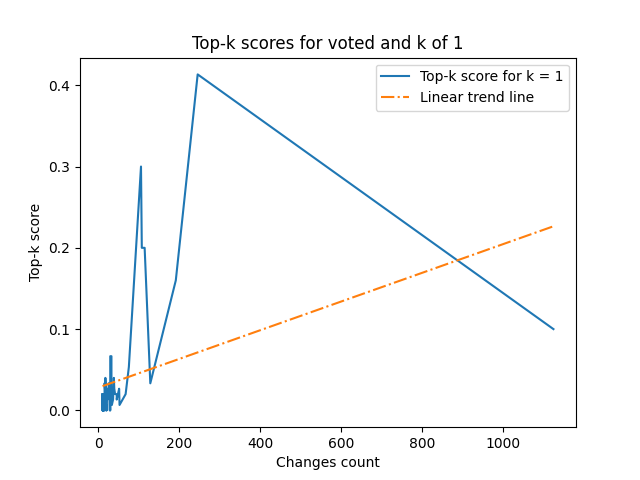
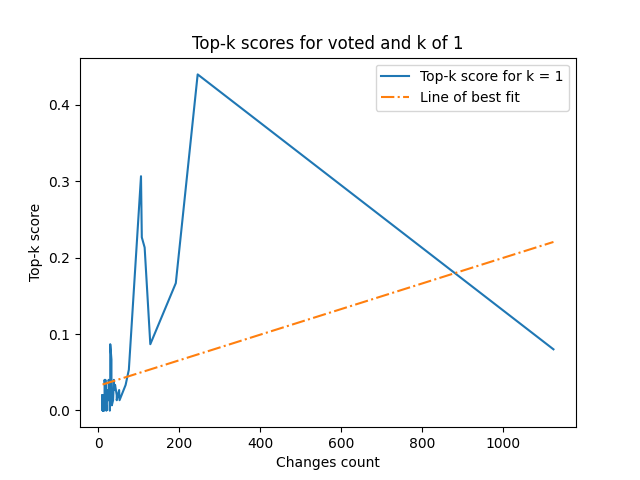
Further work

diff --git a/evaluation/results/neural_network_results_to_graphs.py b/evaluation/results/neural_network_results_to_graphs.py
@@ -1,0 +1,146 @@
+import itertools
+import json
+
+import numpy
+from matplotlib import pyplot
+
+import common
+from evaluation import KValues
+from recommender.neural_network_recommender.neural_network_recommender import ModelMode
+
+repo_test_files_counts = json.load(open(common.path_relative_to_root("data_collection/raw_data/repository_file_counts.json"), 'r'))
+repo_test_files_counts_in_order = [(k, v) for k, v in repo_test_files_counts.items()]
+repo_test_files_counts_in_order = sorted(repo_test_files_counts_in_order, key=lambda x: x[1])
+
+repo_test_changes_counts = json.load(open(common.path_relative_to_root("data_collection/raw_data/repository_test_data_counts.json"), 'r'))
+repo_test_changes_counts_in_order = [(k, v) for k, v in repo_test_changes_counts.items()]
+repo_test_changes_counts_in_order = sorted(repo_test_changes_counts_in_order, key=lambda x: x[1]["changes_count"])
+
+neural_network_results = json.load(open("neural_network_recommender.json", 'r'))
+neural_network_top_k = neural_network_results['top-k']
+neural_network_mrr = neural_network_results['mrr']
+neural_network_testing_after_training_results = json.load(open("neural_network_training_test_results.json", 'r'))
+
+# TODO: Deuplicate the rule based to graphs file version? If no changed needed then do this.
+def create_and_save_graph(x, y, ylabel, title, filename, line_label = None):
+    if line_label is None:
+        # Use ylabel for line_label if line_label is None
+        line_label = ylabel
+    pyplot.figure()
+    pyplot.plot(x, y, label=line_label)
+    p = numpy.poly1d(numpy.polyfit(x, y, 1))
+    pyplot.plot(x, p(x), label="Linear trend line", linestyle="dashdot")
+    pyplot.legend()
+    pyplot.title(title)
+    pyplot.ylabel(ylabel)
+    pyplot.xlabel("Changes count")
+    pyplot.savefig('graphs/' + common.get_sanitised_filename(filename))
+
+model_types_to_appendixes = {
+    ModelMode.REPO_SPECIFIC: ['_approved', '_voted'],
+    ModelMode.MERGED: ['_merged_approved', '_merged_voted'],
+    ModelMode.ABANDONED: ['_abandoned_approved', '_abandoned_voted'],
+    ModelMode.OPEN: ['_open_approved', '_open_voted']
+}
+
+for model_mode, matching_appendixes in model_types_to_appendixes.items():
+    # Plot average of accuracy_score
+    x = []
+    y = []
+    for model_name, testing_after_training_results in neural_network_testing_after_training_results.items():
+        if model_name in ["generic_voted", "generic_approved"]:
+            # Can't graph the generic models as there is only two values.
+            continue
+        model_name: str
+        repository = ''
+        for matching_appendix in matching_appendixes:
+            if model_name.endswith(matching_appendix):
+                if model_mode == ModelMode.REPO_SPECIFIC:
+                    # Ensure match was not for _X_approved/_X_voted where X is open, abandoned or merged.
+                    for exclude_appendix in itertools.chain(model_types_to_appendixes[ModelMode.OPEN], model_types_to_appendixes[ModelMode.MERGED], model_types_to_appendixes[ModelMode.ABANDONED]):
+                        if model_name.endswith(exclude_appendix):
+                            break
+                    else:
+                        repository = model_name.replace(matching_appendix, '').replace('-', '/')
+                        break
+                else:
+                    repository = model_name.replace(matching_appendix, '').replace('-', '/')
+                    break
+        else:
+            # Skip if no appendixes matched.
+            continue
+        if repository not in repo_test_changes_counts:
+            continue
+        if testing_after_training_results["accuracy_score"]["average"] is None:
+            continue
+        # TODO: Graphs with file count and test changes count as x to show neither are a good way to graph?
+        # Add to the data to plot.
+        x.append(repo_test_changes_counts[repository]["changes_count"])
+        y.append(testing_after_training_results["accuracy_score"]["average"])
+    # Sort x and y by values of x keeping the x and y paired
+    x_and_y = [(x_item, y_item) for x_item, y_item in zip(x, y)]
+    x_and_y = sorted(x_and_y, key=lambda x: x[0])
+    x = [x for x, _ in x_and_y]
+    y = [y for _, y in x_and_y]
+    create_and_save_graph(
+        x, y, "Average accuracy score",
+        "Average accuracy scores for " + model_mode.value + " models",
+        'neural-network-avg-accuracy-' + model_mode.value + '.png',
+        line_label="Average accuracy score"
+    )
+
+
+for vote_type in ["approved", "voted"]:
+    for top_k_value in KValues.ALL_VALUES:
+        x = []
+        y = []
+        for repo, info in repo_test_changes_counts_in_order:
+            if repo not in neural_network_top_k.keys():
+                continue
+            if "merged" not in neural_network_top_k[repo].keys():
+                continue
+            if repo == "mediawiki/core":
+                continue
+            x.append(info["changes_count"])
+            y.append(neural_network_top_k[repo]["merged"][vote_type][str(top_k_value)])
+        create_and_save_graph(
+            x, y, "Top-k score",
+            "Top-k scores for " + vote_type + " and k of " + str(top_k_value) + " without mediawiki/core",
+            'neural-network-top-k-' + vote_type + '-k-' + str(top_k_value) + '-no-core.png',
+            line_label="Top-k score for k = " + str(top_k_value)
+        )
+        # Add mediawiki/core for next graph
+        x.append(repo_test_changes_counts["mediawiki/core"]["changes_count"])
+        y.append(neural_network_top_k["mediawiki/core"]["merged"][vote_type][str(top_k_value)])
+        create_and_save_graph(
+            x, y, "Top-k score",
+            "Top-k scores for " + vote_type + " and k of " + str(top_k_value),
+            'neural-network-top-k-' + vote_type + '-k-' + str(top_k_value) + '.png',
+            line_label="Top-k score for k = " + str(top_k_value)
+        )
+
+for vote_type in ["approved", "voted"]:
+    x = []
+    y = []
+    for repo, info in repo_test_changes_counts_in_order:
+        if repo not in neural_network_mrr.keys():
+            continue
+        if "merged" not in neural_network_mrr[repo].keys():
+            continue
+        if repo == "mediawiki/core":
+            continue
+        x.append(info["changes_count"])
+        y.append(neural_network_mrr[repo]["merged"][vote_type])
+    create_and_save_graph(
+        x, y, "MRR score",
+        "MRR scores for " + vote_type + " without mediawiki/core",
+        'neural-network-mrr-' + vote_type + '-no-core.png'
+    )
+    # Add mediawiki/core for next graph
+    x.append(repo_test_changes_counts["mediawiki/core"]["changes_count"])
+    y.append(neural_network_mrr["mediawiki/core"]["merged"][vote_type])
+    create_and_save_graph(
+        x, y, "MRR score",
+        "MRR scores for " + vote_type,
+        'neural-network-mrr-' + vote_type + '.png'
+    )

diff --git a/evaluation/results/neural_network_results_to_latex_table_format.py b/evaluation/results/neural_network_results_to_latex_table_format.py
@@ -1,0 +1,67 @@
+import json
+import statistics
+from argparse import ArgumentParser
+
+import numpy
+
+import common
+from recommender.neural_network_recommender.neural_network_recommender import ModelMode
+
+argument_parser = ArgumentParser(
+        description="Prints the evaluation data into LaTeX table form. Used to write the report.")
+argument_parser.add_argument('repositories', nargs='*', help="The repositories to filter for")
+arguments = argument_parser.parse_args()
+
+# Repo file count metrics
+repo_file_counts = json.load(open(common.path_relative_to_root("data_collection/raw_data/repository_file_counts.json"), 'r'))
+repo_file_counts_in_order = [(k, v) for k, v in repo_file_counts.items()]
+repo_file_counts_in_order = sorted(repo_file_counts_in_order, key=lambda x: x[1])
+if len(arguments.repositories):
+    print("Only printing data for repos specified in the arguments")
+    repo_file_counts_in_order = list(filter(lambda x: x[0] in arguments.repositories, repo_file_counts_in_order))
+repo_test_changes_counts = json.load(open(common.path_relative_to_root("data_collection/raw_data/repository_test_data_counts.json"), 'r'))
+repo_test_changes_counts_in_order = [(k, v) for k, v in repo_test_changes_counts.items()]
+repo_test_changes_counts_in_order = sorted(repo_test_changes_counts_in_order, key=lambda x: x[1]["changes_count"])
+if len(arguments.repositories):
+    repo_test_changes_counts_in_order = list(filter(lambda x: x[0] in arguments.repositories, repo_test_changes_counts_in_order))
+
+neural_network_testing_after_training_results = json.load(open("neural_network_training_test_results.json", 'r'))
+if len(arguments.repositories):
+
+
+# Accuracy score
+
+# Top-k
+evaluation_results = json.load(open("neural_network_recommender.json", 'r'))
+top_k_accuracies = evaluation_results['top-k']
+mrr_score = evaluation_results['mrr']
+for status in [ModelMode.OPEN.value, ModelMode.MERGED.value, ModelMode.ABANDONED.value]:
+    for vote_type in ["approved", "voted"]:
+        print("\n\n\n")
+        print("Status:", status)
+        print("Vote type:", vote_type)
+        for repository, repository_top_ks in top_k_accuracies.items():
+            if status not in repository_top_ks:
+                continue
+            if vote_type not in repository_top_ks[status]:
+                continue
+            if len(arguments.repositories) and repository not in arguments.repositories:
+                continue
+            vote_type_top_ks = repository_top_ks[status][vote_type]
+            print(repository, end=' ')
+            for top_k_score in vote_type_top_ks.values():
+                print('&', round(top_k_score, 3), end=' ')
+            print("\\\\")
+
+for status in [ModelMode.OPEN.value, ModelMode.MERGED.value, ModelMode.ABANDONED.value]:
+    print("\n\n\n")
+    print("Status:", status)
+    for repository, repository_mrr in mrr_score.items():
+        if status not in repository_mrr:
+            continue
+        if len(arguments.repositories) and repository not in arguments.repositories:
+            continue
+        print(repository, end=' ')
+        for vote_type_mrr_score in repository_mrr[status].values():
+            print('&', round(vote_type_mrr_score, 3), end=' ')
+        print("\\\\")

diff --git a/evaluation/neural_network_recommender_evaluation.py b/evaluation/neural_network_recommender_evaluation.py
@@ -104,12 +104,16 @@ if __name__ == "__main__":
                 mrr_score[repository][model.value] = {}
                 for selection_mode in SelectionMode:
                     print("  Evaluating using selection mode", selection_mode.value)
-                    top_k_accuracies[repository][model.value][selection_mode.value] = top_k_accuracy_for_repo(
-                        MLPClassifierImplementation(repository, model, time_period, selection_mode).recommend_using_change_info, repository, num_changes, branch
-                    )
-                    mrr_score[repository][model.value][selection_mode.value] = mrr_result_for_repo(
-                        MLPClassifierImplementation(repository, model, time_period, selection_mode).recommend_using_change_info, repository, num_changes, branch
-                    )
+                    try:
+                        top_k_accuracies[repository][model.value][selection_mode.value] = top_k_accuracy_for_repo(
+                            MLPClassifierImplementation(repository, model, time_period, selection_mode).recommend_using_change_info, repository, num_changes, branch
+                        )
+                        mrr_score[repository][model.value][selection_mode.value] = mrr_result_for_repo(
+                            MLPClassifierImplementation(repository, model, time_period, selection_mode).recommend_using_change_info, repository, num_changes, branch
+                        )
+                    except BaseException as e:
+                        # Model does not exist, so skip.
+                        continue
         except BaseException as e:
             print("Error:", e)
             logging.error("Error occurred. Moving to next repo.", exc_info=e)

diff --git a/evaluation/results/rule_based_results_to_graphs.py b/evaluation/results/rule_based_results_to_graphs.py
@@ -21,7 +21,7 @@ def create_and_save_graph(x, y, ylabel, title, filename, line_label = None):
     pyplot.figure()
     pyplot.plot(x, y, label=line_label)
     p = numpy.poly1d(numpy.polyfit(x, y, 1))
-    pyplot.plot(x, p(x), label="Linear trend line", linestyle="dashdot")
+    pyplot.plot(x, p(x), label="Line of best fit", linestyle="dashdot")
     pyplot.legend()
     pyplot.title(title)
     pyplot.ylabel(ylabel)
